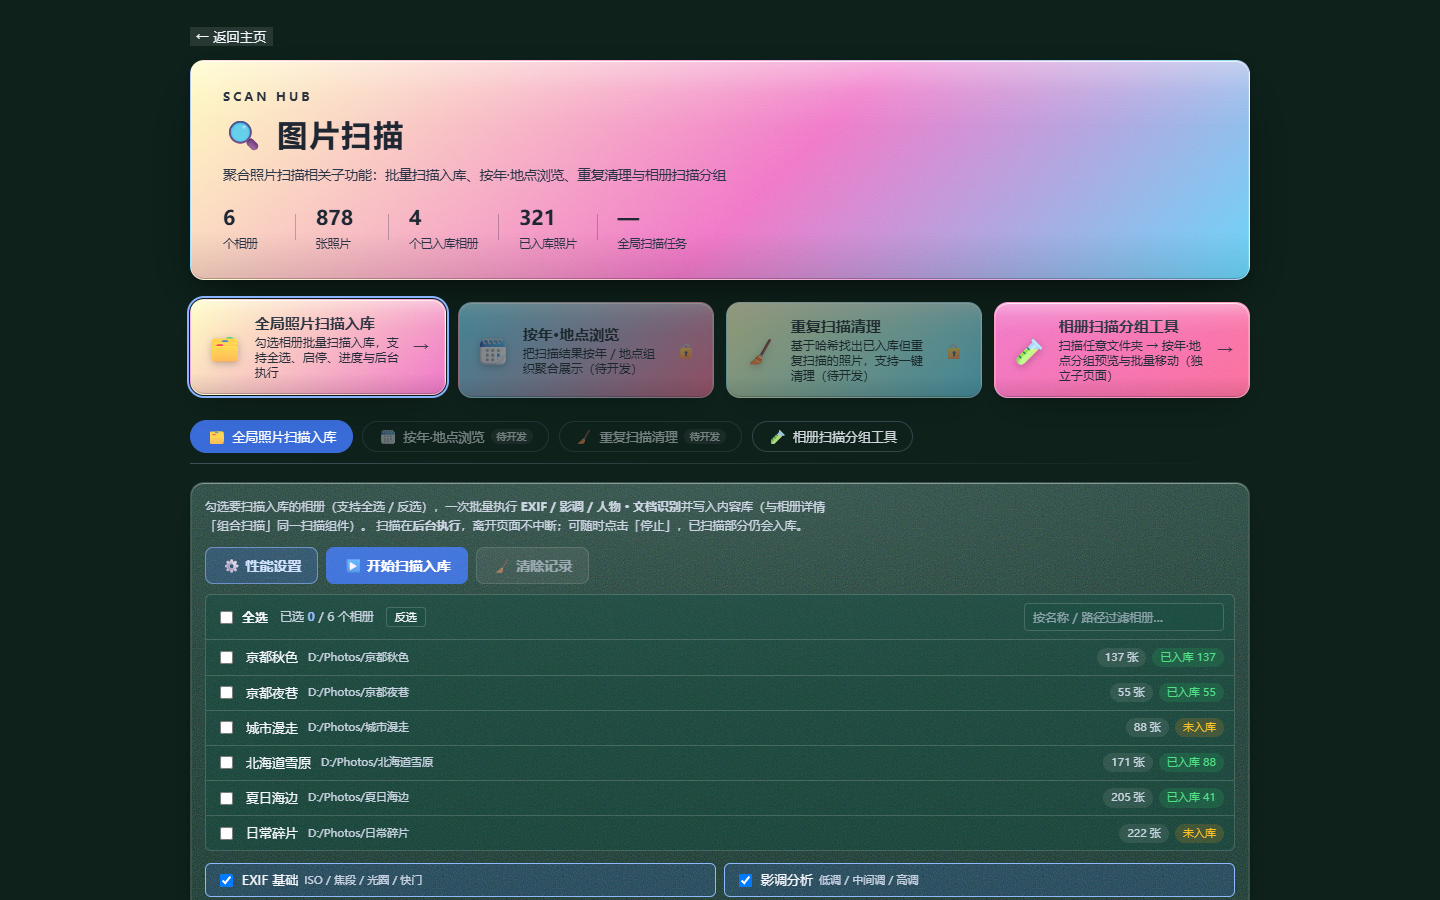
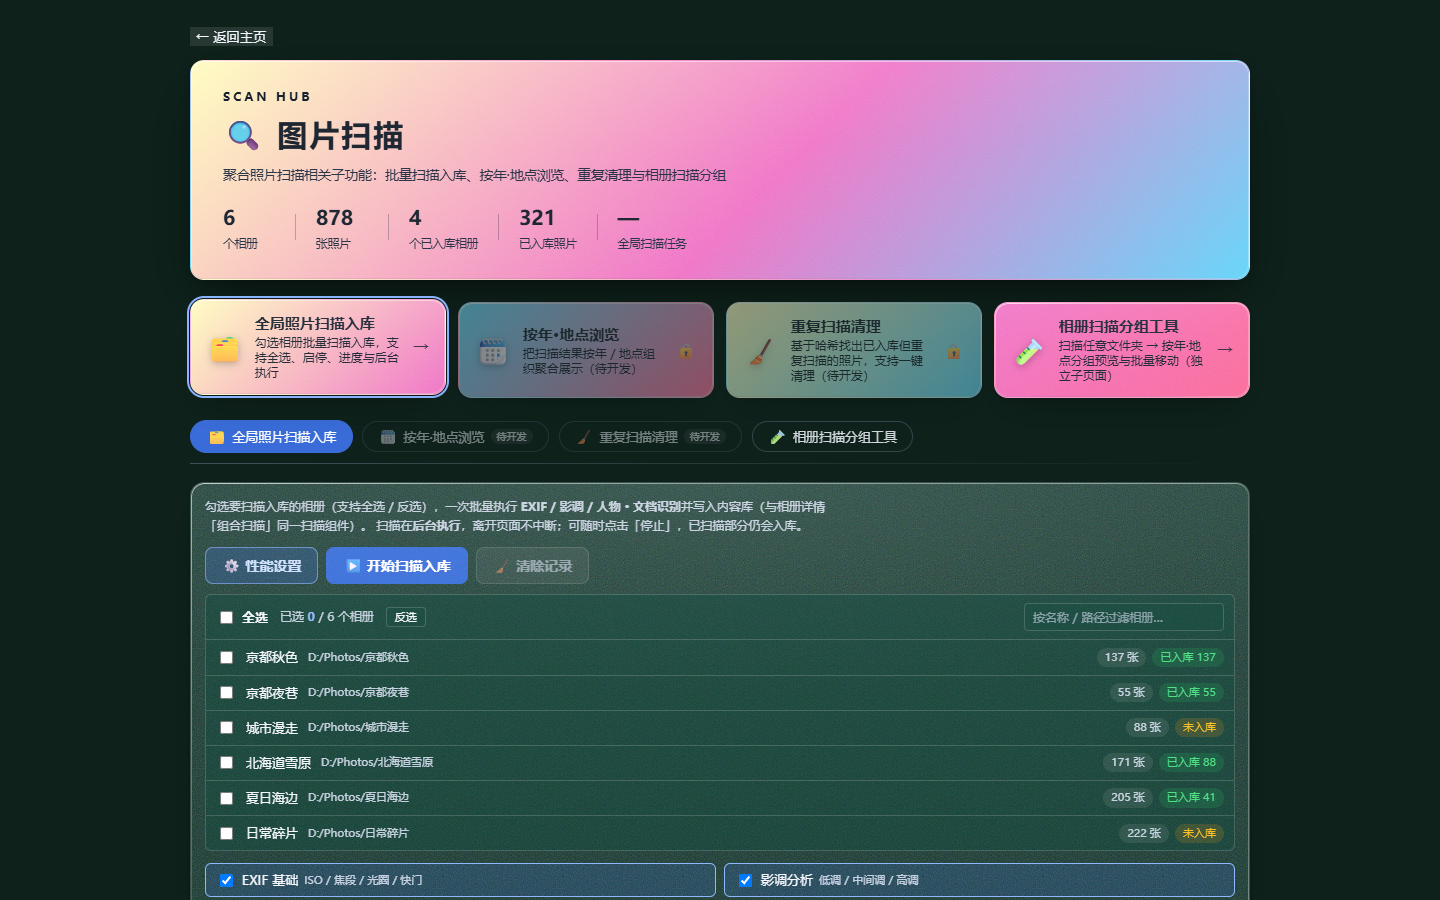
feat(ui): 玻璃棱环双色调加厚（顶白镜面+底暗壁 1.5px），磨砂也配光泽带，倒角双向色差，修徽标对比

Changed region(s): [[0.4062, 0.0622, 0.875, 0.0933], [0.6875, 0.3111, 0.875, 0.3733]]

diff --git a/src/assets/main.css b/src/assets/main.css
@@ -78,16 +78,22 @@
     rgba(255, 255, 255, 0.14) 16%,
     rgba(255, 255, 255, 0) 34%
   );
+  /* 磨砂光泽带：磨砂玻璃同样有顶部受光面，只是比釉瓷更柔（雾面反射） */
+  --frosted-highlight: linear-gradient(
+    180deg,
+    rgba(255, 255, 255, 0.28) 0%,
+    rgba(255, 255, 255, 0.08) 14%,
+    rgba(255, 255, 255, 0) 30%
+  );
 
-  /* 公共表面光影：顶部受光棱线 + 底部收暗 + 双层投影（环境光 + 主光）。
-     两条消费路径（.glass-* 类与 cardStyle 内联）都引用本令牌，改一处全局生效。
-     材质升级：四边棱线（上下明暗 + 左右微亮）让玻璃「有厚度」，
-     落影拆成近距接触影 + 远距弥散影两层，浮起感更真实。 */
+  /* 公共表面光影：双向倒角（顶部白亮棱 + 底部暗色玻璃壁）+ 双层投影。
+     厚度感 = 顶亮/底暗的色差；底暗壁在浅色背景下尤其关键（白对白会隐形）。
+     两条消费路径（.glass-* 类与 cardStyle 内联）都引用本令牌，改一处全局生效。 */
   --shadow-1:
-    inset 0 1px 0 rgba(255, 255, 255, 0.42),
-    inset 0 -1px 0 rgba(0, 0, 0, 0.1),
-    inset 1px 0 0 rgba(255, 255, 255, 0.08),
-    inset -1px 0 0 rgba(255, 255, 255, 0.08),
+    inset 0 1px 1px rgba(255, 255, 255, 0.5),
+    inset 0 -1px 1.5px rgba(0, 0, 0, 0.2),
+    inset 1px 0 1px rgba(255, 255, 255, 0.1),
+    inset -1px 0 1px rgba(0, 0, 0, 0.08),
     0 2px 4px rgba(0, 0, 0, 0.16),
     0 20px 44px -16px rgba(0, 0, 0, 0.42);
 
@@ -161,12 +167,12 @@ body.theme-on-image {
 body.mat-frosted {
   --glass-blur: 24px;
   --glass-saturate: 1.15;
-  /* 磨砂投影：柔和弥散（验收表：磨砂 → 柔和），保留四边棱线 */
+  /* 磨砂倒角：柔和但保留顶亮/底暗双向色差 */
   --shadow-1:
-    inset 0 1px 0 rgba(255, 255, 255, 0.38),
-    inset 0 -1px 0 rgba(0, 0, 0, 0.08),
-    inset 1px 0 0 rgba(255, 255, 255, 0.07),
-    inset -1px 0 0 rgba(255, 255, 255, 0.07),
+    inset 0 1px 1px rgba(255, 255, 255, 0.45),
+    inset 0 -1px 1.5px rgba(0, 0, 0, 0.18),
+    inset 1px 0 1px rgba(255, 255, 255, 0.08),
+    inset -1px 0 1px rgba(0, 0, 0, 0.06),
     0 2px 4px rgba(0, 0, 0, 0.12),
     0 16px 36px -16px rgba(0, 0, 0, 0.34);
 }
@@ -174,12 +180,12 @@ body.mat-frosted {
 body.mat-liquid {
   --glass-blur: 10px;
   --glass-saturate: 1.6;
-  /* 液态投影：更深、对比更强（验收表：液态 → 更深） */
+  /* 液态倒角：更强对比，顶亮棱与底暗壁都加厚一档 */
   --shadow-1:
-    inset 0 1px 0 rgba(255, 255, 255, 0.55),
-    inset 0 -1px 0 rgba(0, 0, 0, 0.12),
-    inset 1px 0 0 rgba(255, 255, 255, 0.1),
-    inset -1px 0 0 rgba(255, 255, 255, 0.1),
+    inset 0 1.5px 1px rgba(255, 255, 255, 0.6),
+    inset 0 -1.5px 2px rgba(0, 0, 0, 0.24),
+    inset 1.5px 0 1px rgba(255, 255, 255, 0.12),
+    inset -1.5px 0 1px rgba(0, 0, 0, 0.12),
     0 2px 5px rgba(0, 0, 0, 0.16),
     0 22px 48px -14px rgba(0, 0, 0, 0.5);
 }
@@ -190,10 +196,10 @@ body.mat-glazed {
   --glass-blur: 6px;
   --glass-saturate: 1.35;
   --shadow-1:
-    inset 0 1px 0 rgba(255, 255, 255, 0.6),
-    inset 0 -1px 0 rgba(0, 0, 0, 0.14),
-    inset 1px 0 0 rgba(255, 255, 255, 0.12),
-    inset -1px 0 0 rgba(255, 255, 255, 0.12),
+    inset 0 1.5px 1px rgba(255, 255, 255, 0.65),
+    inset 0 -1.5px 2px rgba(0, 0, 0, 0.26),
+    inset 1.5px 0 1px rgba(255, 255, 255, 0.14),
+    inset -1.5px 0 1px rgba(0, 0, 0, 0.14),
     0 3px 6px rgba(0, 0, 0, 0.2),
     0 24px 52px -14px rgba(0, 0, 0, 0.55);
 }
@@ -226,7 +232,7 @@ body.mat-frosted .glass-card::before {
   border-radius: inherit;
   pointer-events: none;
   background-image: var(--grain),
-    radial-gradient(140% 70% at 50% 0%, rgba(255, 255, 255, 0.16), transparent 58%),
+    radial-gradient(140% 70% at 50% 0%, rgba(255, 255, 255, 0.22), transparent 58%),
     linear-gradient(180deg, rgba(255, 255, 255, 0.1), rgba(0, 0, 0, 0.05));
   background-size: 120px 120px, 100% 100%, 100% 100%;
   mix-blend-mode: soft-light;
@@ -284,10 +290,11 @@ body.mat-glazed .glass-card::before {
   mix-blend-mode: soft-light;
   opacity: 0.8;
 }
-/* —— 玻璃边缘：渐变光泽棱环（厚度感）——
-   1px 渐变描边环：左上受光最亮 → 中段收暗 → 右下留一道微弱环境反光，
-   像真实玻璃棱边那样沿边亮度在变，而不是一条均匀细线。
-   mask-composite 只保留边缘 1px，内部零遮挡；随 border-radius 自适应。
+/* —— 玻璃边缘：双色调渐变棱环（厚度感 + 双向光泽）——
+   两层背景沿 1.5px 棱环分布：
+   ① 180°：顶部白色镜面高光 → 中段收暗 → 底部暗色玻璃壁（浅色背景下「厚度」靠暗壁读出）；
+   ② 135°：左上/右下两角的额外角部反光（玻璃棱边对光源/环境的反射）。
+   mask-composite 只保留边缘 1.5px，内部零遮挡；随 border-radius 自适应。
    三类容器共享：.glass-surface / .glass-card / .candy-surface（彩虹卡） */
 .glass-surface::after,
 .glass-card::after,
@@ -296,15 +303,23 @@ body.mat-glazed .glass-card::before {
   position: absolute;
   inset: 0;
   border-radius: inherit;
-  padding: 1px; /* 环宽 = 玻璃厚度 */
-  background: linear-gradient(
-    135deg,
-    rgba(255, 255, 255, 0.55) 0%,
-    rgba(255, 255, 255, 0.1) 26%,
-    rgba(255, 255, 255, 0.05) 48%,
-    rgba(255, 255, 255, 0.14) 74%,
-    rgba(255, 255, 255, 0.34) 100%
-  );
+  padding: 1.5px; /* 环宽 = 玻璃厚度 */
+  background:
+    linear-gradient(
+      180deg,
+      rgba(255, 255, 255, 0.9) 0%,
+      rgba(255, 255, 255, 0.26) 20%,
+      rgba(255, 255, 255, 0) 44%,
+      rgba(0, 0, 0, 0) 56%,
+      rgba(15, 28, 24, 0.26) 100%
+    ),
+    linear-gradient(
+      135deg,
+      rgba(255, 255, 255, 0.4) 0%,
+      rgba(255, 255, 255, 0) 30%,
+      rgba(255, 255, 255, 0) 68%,
+      rgba(255, 255, 255, 0.42) 100%
+    );
   -webkit-mask: linear-gradient(#fff 0 0) content-box, linear-gradient(#fff 0 0);
   -webkit-mask-composite: xor;
   mask: linear-gradient(#fff 0 0) content-box, linear-gradient(#fff 0 0);
@@ -530,6 +545,12 @@ body.mat-liquid .glass-card {
 body.mat-glazed .glass-surface,
 body.mat-glazed .glass-card {
   background-image: var(--glazed-highlight);
+  background-color: var(--glass-bg);
+  background-repeat: no-repeat;
+}
+body.mat-frosted .glass-surface,
+body.mat-frosted .glass-card {
+  background-image: var(--frosted-highlight);
   background-color: var(--glass-bg);
   background-repeat: no-repeat;
 }

diff --git a/src/stores/theme.ts b/src/stores/theme.ts
@@ -383,7 +383,7 @@ export const useThemeStore = defineStore("theme", () => {
         ? "var(--liquid-highlight)"
         : material.value === "glazed"
           ? "var(--glazed-highlight)"
-          : "none",
+          : "var(--frosted-highlight)",
     border: `1px solid ${cardBorder.value}`,
     /* 修补：内联路径此前缺 -webkit- 前缀，Safari/WebView 下零模糊 */
     WebkitBackdropFilter: "blur(var(--glass-blur)) saturate(var(--glass-saturate))",

diff --git a/src/components/AlbumCard.vue b/src/components/AlbumCard.vue
@@ -163,7 +163,8 @@ function emitSourcePath(src: { id: number; path: string }, ev: MouseEvent) {
   color: #fff;
 }
 .scan-badge-out {
-  background: rgba(138, 128, 120, 0.75);
+  /* 深灰实底压住卡片光泽层：白字 11px 需 ≥4.5:1（原 0.75 透底被新光泽层提亮到 4.43） */
+  background: rgba(96, 88, 82, 0.88);
   color: #fff;
 }
 
